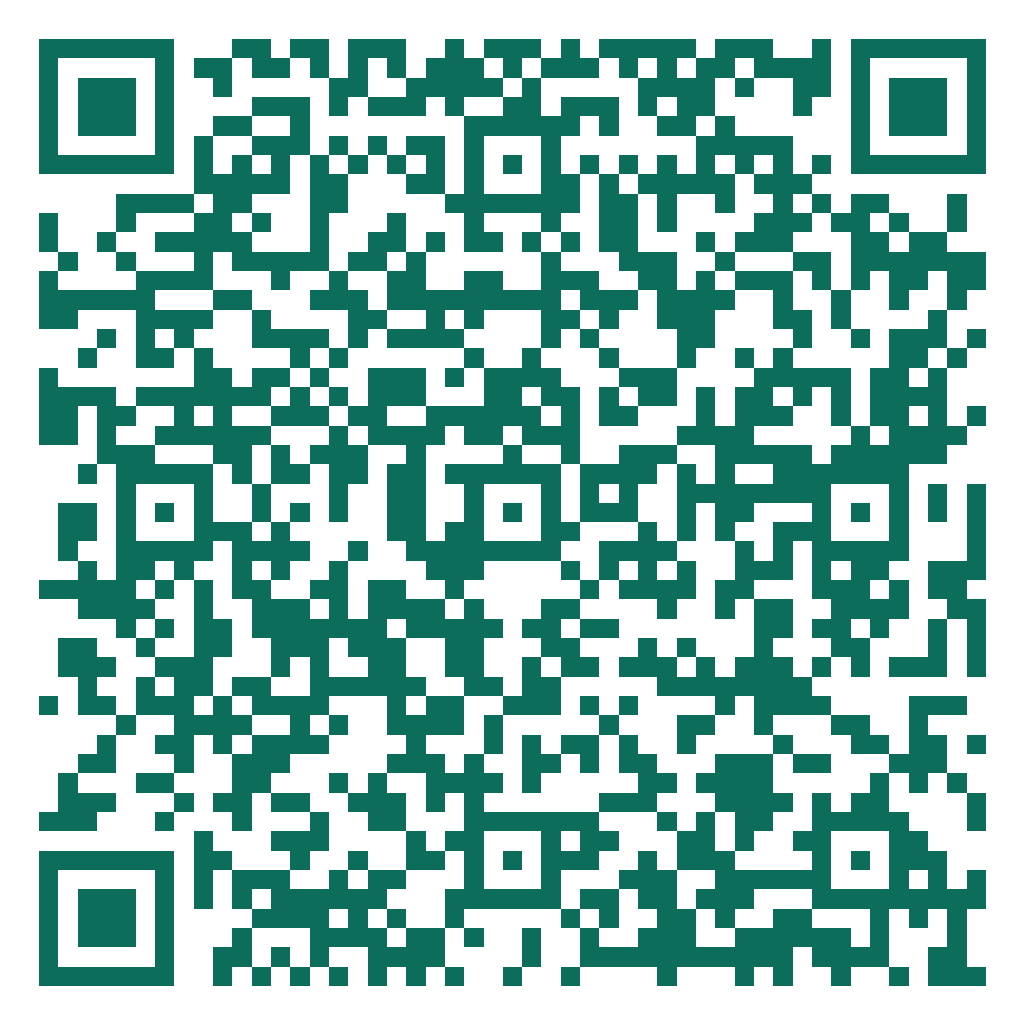
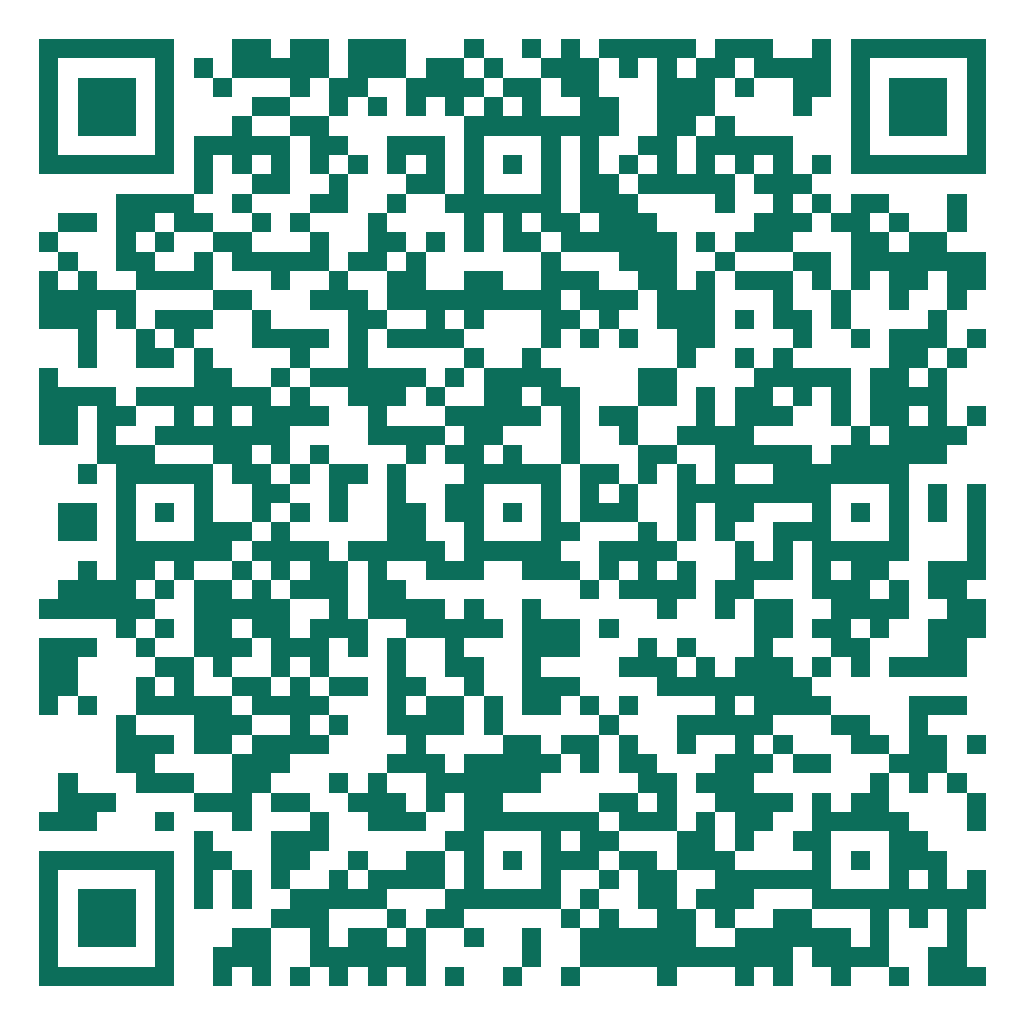
fix(location): align coordinates with exact physical building on Yandex Maps (40.759178, 72.354302) and note Muqimiy 35 / map 41

diff --git a/frontend/src/constants/clinics.js b/frontend/src/constants/clinics.js
@@ -32,9 +32,9 @@ export const CLINICS = [
       en: "35 Muqimiy St., Rayon Stoyanka, Andijan",
     },
     landmark: {
-      uz: "Muqimiy 35, Rayon Stoyanka",
-      ru: "Мукими 35, Районная стоянка (Rayon Stoyanka)",
-      en: "Muqimiy 35, Rayon Stoyanka",
+      uz: "Muqimiy 35 (Xaritada: Muqimiy 41, mo'ljal: Rayon Stoyanka)",
+      ru: "Мукими 35 (На карте: Мукими 41, Районная стоянка)",
+      en: "35 Muqimiy St. (On map: 41 Muqimiy St., Rayon Stoyanka)",
     },
     hours: {
       uz: "Dushanba – Shanba: 08:30 – 18:30",
@@ -54,24 +54,24 @@ export const CLINICS = [
     instagram: "https://www.instagram.com/dr_orifjon/",
     instagramHandle: "@dr_orifjon",
     coordinates: {
-      lat: 40.759335,
-      lng: 72.358407,
+      lat: 40.759178,
+      lng: 72.354302,
     },
     maps: {
-      google: "https://www.google.com/maps/search/?api=1&query=40.759335,72.358407",
-      googleFull: "https://www.google.com/maps/search/?api=1&query=40.759335,72.358407",
-      googleEmbed: "https://www.google.com/maps?q=40.759335,72.358407&hl=uz&z=17&output=embed",
-      yandex: "https://yandex.uz/maps/?whatshere[point]=72.358407,40.759335&whatshere[zoom]=17&ll=72.358407%2C40.759335&z=17",
-      yandexShort: "https://yandex.uz/maps/?whatshere[point]=72.358407,40.759335&whatshere[zoom]=17",
-      yandexEmbed: "https://yandex.uz/map-widget/v1/?ll=72.358407%2C40.759335&z=17&pt=72.358407,40.759335,pm2rdm",
+      google: "https://www.google.com/maps/search/?api=1&query=40.759178,72.354302",
+      googleFull: "https://www.google.com/maps/search/?api=1&query=40.759178,72.354302",
+      googleEmbed: "https://www.google.com/maps?q=40.759178,72.354302&hl=uz&z=17&output=embed",
+      yandex: "https://yandex.uz/maps/?whatshere[point]=72.354302,40.759178&whatshere[zoom]=18&ll=72.354302%2C40.759178&z=18",
+      yandexShort: "https://yandex.uz/maps/?whatshere[point]=72.354302,40.759178&whatshere[zoom]=18",
+      yandexEmbed: "https://yandex.uz/map-widget/v1/?ll=72.354302%2C40.759178&z=18&pt=72.354302,40.759178,pm2rdm",
       yandexOrgId: "",
-      yandexReviewUrl: "https://yandex.uz/maps/?whatshere[point]=72.358407,40.759335&whatshere[zoom]=17",
-      yandexRouteUrl: "https://yandex.uz/maps/?rtext=~40.759335,72.358407&rtt=auto",
+      yandexReviewUrl: "https://yandex.uz/maps/?whatshere[point]=72.354302,40.759178&whatshere[zoom]=18",
+      yandexRouteUrl: "https://yandex.uz/maps/?rtext=~40.759178,72.354302&rtt=auto",
       yandexBusinessUrl: "https://yandex.uz/business/",
-      yandexBusinessAddUrl: "https://yandex.uz/business/add",
+      yandexBusinessAddUrl: "https://business.yandex.ru/sprav/add",
       googlePlaceId: "",
       googleCid: "",
-      googleReviewUrl: "https://www.google.com/maps/search/?api=1&query=40.759335,72.358407",
+      googleReviewUrl: "https://www.google.com/maps/search/?api=1&query=40.759178,72.354302",
     },
   },
 ];

diff --git a/frontend/public/qr-stand.html b/frontend/public/qr-stand.html
@@ -428,7 +428,7 @@
 
           <!-- Prompt Text -->
           <p class="card-footer-prompt">Kamerani QR-kodga qarating</p>
-          <a href="https://www.google.com/maps/search/?api=1&query=40.759335,72.358407" target="_blank" rel="noopener noreferrer" class="card-footer-link link-google">Google Xaritalarda baholash</a>
+          <a href="https://www.google.com/maps/search/?api=1&query=40.759178,72.354302" target="_blank" rel="noopener noreferrer" class="card-footer-link link-google">Google Xaritalarda baholash</a>
 
         </div>
 
@@ -454,7 +454,7 @@
 
           <!-- Prompt Text -->
           <p class="card-footer-prompt">Kamerani QR-kodga qarating</p>
-          <a href="https://yandex.uz/maps/?whatshere[point]=72.358407,40.759335&whatshere[zoom]=17" target="_blank" rel="noopener noreferrer" class="card-footer-link link-yandex">Yandeks Xaritalarda baholash</a>
+          <a href="https://yandex.uz/maps/?whatshere[point]=72.354302,40.759178&whatshere[zoom]=18" target="_blank" rel="noopener noreferrer" class="card-footer-link link-yandex">Yandeks Xaritalarda baholash</a>
 
         </div>
 
